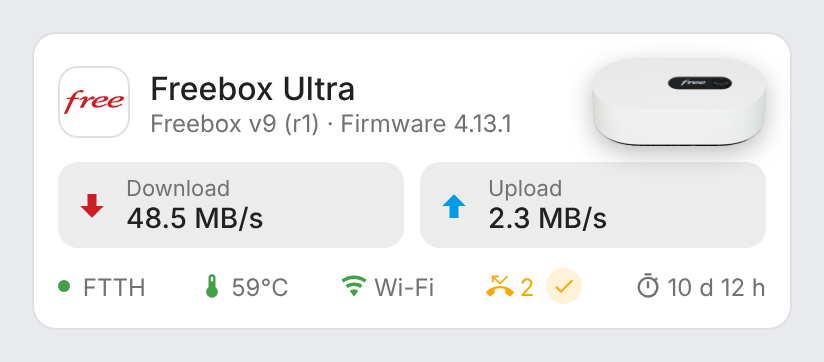
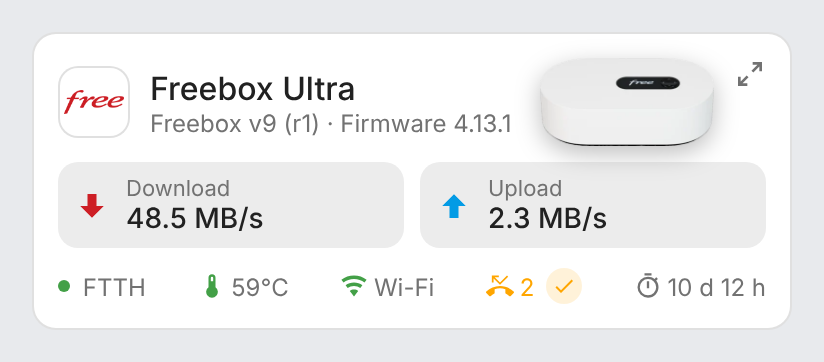
Detail button on the mini card to show the full card (1.8.0) (#17)
## Summary

- Detail button at the top right of the **Freebox Mini Card**
(`mdi:arrow-expand`, "Show the full card"): it shows the full Freebox
card in place of the mini card, same Freebox and options, every section
(network, system, storage, services). The button becomes
`mdi:arrow-collapse` ("Back to the compact view") at the top right of
the full view.
- A click anywhere outside the card folds it back (document listener in
capture phase, added / removed with the card); clicks inside the card or
in a dialog opened from it (`ha-more-info-dialog`, `ha-dialog`,
`dialog`) do not. The button click does not propagate; from the
keyboard, the focus stays on the new button.
- `FreeboxMiniCard` now extends `FreeboxCard`: zoomed in, it calls the
full card's `_render()` (no duplicated markup, jscpd 0 clones).
`getCardSize` / `getGridOptions` follow the view shown.
- New `zoom` option (default `true`), with a switch and helper in the
mini card's visual editor (EN/FR), not written to the YAML at its
default.
- Version 1.8.0: README, CHANGELOG, screenshots.

## Screenshots

| Light | Dark (French) |
|---|---|
| ![mini
card](https://raw.githubusercontent.com/juju35/ha-freebox-card/feat/mini-zoom/screenshots/mini-card.png)
| ![mini card
dark](https://raw.githubusercontent.com/juju35/ha-freebox-card/feat/mini-zoom/screenshots/mini-card-dark.png)
|
| ![mini card zoomed
in](https://raw.githubusercontent.com/juju35/ha-freebox-card/feat/mini-zoom/screenshots/mini-card-zoom.png)
[…]

diff --git a/src/freebox-card.js b/src/freebox-card.js
@@ -36,6 +36,9 @@ const ICONS = {
   phone_missed: "M23.71,16.67C20.66,13.77 16.54,12 12,12C7.46,12 3.34,13.77 0.29,16.67C0.11,16.85 0,17.1 0,17.38C0,17.66 0.11,17.9 0.29,18.08L2.77,20.56C2.95,20.74 3.2,20.85 3.5,20.85C3.75,20.85 4,20.75 4.18,20.57C4.97,19.83 5.86,19.21 6.84,18.71C7.17,18.55 7.4,18.21 7.4,17.81V14.71C8.85,14.24 10.39,14 12,14C13.6,14 15.15,14.24 16.6,14.72V17.82C16.6,18.22 16.83,18.56 17.16,18.72C18.14,19.21 19.04,19.84 19.82,20.58C20,20.76 20.25,20.86 20.5,20.86C20.8,20.86 21.05,20.75 21.23,20.57L23.71,18.09C23.89,17.91 24,17.66 24,17.38C24,17.1 23.89,16.85 23.71,16.67M6.5,5.5L12,11L19,4L18,3L12,9L7.5,4.5H11V3H5V9H6.5V5.5Z",
   database: "M12,3C7.58,3 4,4.79 4,7C4,9.21 7.58,11 12,11C16.42,11 20,9.21 20,7C20,4.79 16.42,3 12,3M4,9V12C4,14.21 7.58,16 12,16C16.42,16 20,14.21 20,12V9C20,11.21 16.42,13 12,13C7.58,13 4,11.21 4,9M4,14V17C4,19.21 7.58,21 12,21C16.42,21 20,19.21 20,17V14C20,16.21 16.42,18 12,18C7.58,18 4,16.21 4,14Z",
   chip: "M6,4H18V5H21V7H18V9H21V11H18V13H21V15H18V17H21V19H18V20H6V19H3V17H6V15H3V13H6V11H3V9H6V7H3V5H6V4M11,15V18H12V15H11M13,15V18H14V15H13M15,15V18H16V15H15Z",
+  // mdi:arrow-expand / mdi:arrow-collapse: the detail button of the mini card.
+  expand: "M10,21V19H6.41L10.91,14.5L9.5,13.09L5,17.59V14H3V21H10M14.5,10.91L19,6.41V10H21V3H14V5H17.59L13.09,9.5L14.5,10.91Z",
+  collapse: "M19.5,3.09L15,7.59V4H13V11H20V9H16.41L20.91,4.5L19.5,3.09M4,13V15H7.59L3.09,19.5L4.5,20.91L9,16.41V20H11V13H4Z",
   services: "M12,15.5A3.5,3.5 0 0,1 8.5,12A3.5,3.5 0 0,1 12,8.5A3.5,3.5 0 0,1 15.5,12A3.5,3.5 0 0,1 12,15.5M19.43,12.97C19.47,12.65 19.5,12.33 19.5,12C19.5,11.67 19.47,11.34 19.43,11L21.54,9.37C21.73,9.22 21.78,8.95 21.66,8.73L19.66,5.27C19.54,5.05 19.27,4.96 19.05,5.05L16.56,6.05C16.04,5.66 15.5,5.32 14.87,5.07L14.5,2.42C14.46,2.18 14.25,2 14,2H10C9.75,2 9.54,2.18 9.5,2.42L9.13,5.07C8.5,5.32 7.96,5.66 7.44,6.05L4.95,5.05C4.73,4.96 4.46,5.05 4.34,5.27L2.34,8.73C2.21,8.95 2.27,9.22 2.46,9.37L4.57,11C4.53,11.34 4.5,11.67 4.5,12C4.5,12.33 4.53,12.65 4.57,12.97L2.46,14.63C2.27,14.78 2.21,15.05 2.34,15.27L4.34,18.73C4.46,18.95 4.73,19.03 4.95,18.95L7.44,17.94C7.96,18.34 8.5,18.68 9.13,18.93L9.5,21.58C9.54,21.82 9.75,22 10,22H14C14.25,22 14.46,21.82 14.5,21.58L14.87,18.93C15.5,18.67 16.04,18.34 16.56,17.94L19.05,18.95C19.27,19.03 19.54,18.95 19.66,18.73L21.66,15.27C21.78,15.05 21.73,14.78 21.54,14.63L19.43,12.97Z",
 };
 
@@ -70,6 +73,8 @@ const STRINGS = {
     minutes: "min",
     no_box: "No Freebox entities found. Is the Freebox integration installed?",
     unknown_box: "Freebox not found",
+    zoom_in: "Show the full card",
+    zoom_out: "Back to the compact view",
     // Editor
     box: "Freebox (Freebox integration device)",
     title: "Title (optional, defaults to the Freebox model)",
@@ -83,6 +88,8 @@ const STRINGS = {
     show_system: "Show system (temperatures, fans)",
     show_storage: "Show storage",
     show_services: "Show services (Wi-Fi, calls, devices)",
+    zoom: "Detail button",
+    zoom_helper: "Button at the top right that shows the full Freebox card in place of the mini card, and back",
     rate_unit: "Rate unit",
     unit_bytes: "Bytes (kB/s, MB/s)",
     unit_bits: "Bits (kb/s, Mb/s)",
@@ -119,6 +126,8 @@ const STRINGS = {
     minutes: "min",
     no_box: "Aucune entité Freebox trouvée. L'intégration Freebox est-elle installée ?",
     unknown_box: "Freebox introuvable",
+    zoom_in: "Afficher la carte complète",
+    zoom_out: "Revenir à la vue compacte",
     box: "Freebox (appareil de l'intégration Freebox)",
     title: "Titre (facultatif, modèle de la Freebox par défaut)",
     model: "Modèle de la Freebox (photo et titre par défaut)",
@@ -131,6 +140,8 @@ const STRINGS = {
     show_system: "Afficher le système (températures, ventilateurs)",
     show_storage: "Afficher le stockage",
     show_services: "Afficher les services (Wi-Fi, appels, appareils)",
+    zoom: "Bouton détail",
+    zoom_helper: "Bouton en haut à droite qui affiche la carte Freebox complète à la place de la mini carte, et inversement",
     rate_unit: "Unité des débits",
     unit_bytes: "Octets (ko/s, Mo/s)",
     unit_bits: "Bits (kb/s, Mb/s)",
@@ -311,6 +322,9 @@ const morph = (root, html) => {
   tpl.innerHTML = html;
   patchChildren(root, tpl.content);
 };
+
+// A click inside a dialog (more-info opened from the card, say) is not a click outside the card.
+const inDialog = (path) => path.some((n) => ["ha-more-info-dialog", "ha-dialog", "dialog"].includes(n.localName));
 
 const fireMoreInfo = (node, entityId) => {
   if (!entityId) return;
@@ -494,6 +508,12 @@ const BASE_STYLE = `
   .tile.down { --c: var(--fb-red); }
   .tile.up { --c: var(--info-color, #039be5); }
   .warning { padding: 16px; color: var(--fb-warn); }
+  .zoom { flex: none; align-self: flex-start; display: grid; place-items: center; width: 24px; height: 24px; padding: 0;
+          margin: -4px -4px 0 -4px; border: none; border-radius: 50%; cursor: pointer; background: none;
+          color: var(--secondary-text-color); }
+  .zoom .icon { width: 16px; height: 16px; }
+  .zoom:hover { background: color-mix(in srgb, var(--secondary-text-color) 16%, transparent); color: var(--primary-text-color); }
+  .zoom:focus-visible { outline: 2px solid var(--primary-color, #03a9f4); outline-offset: 1px; }
 `;
 
 class FreeboxBase extends HTMLElement {
@@ -646,7 +666,13 @@ class FreeboxBase extends HTMLElement {
               )}"></a>`
             : ""
         }
+        ${this._headerEnd()}
       </div>`;
+  }
+
+  // End of the header, top right (the detail button of the mini card).
+  _headerEnd() {
+    return "";
   }
 
   _noBox() {
@@ -898,24 +924,64 @@ const MINI_STYLE = `
   .foot .reset .icon { width: 12px; height: 12px; }
 `;
 
-class FreeboxMiniCard extends FreeboxBase {
+// The detail button (top right, `zoom: false` removes it) switches the mini card to the full card, with the
+// same configuration, and back; a click anywhere outside the card (or a dialog opened from it) brings it back too.
+class FreeboxMiniCard extends FreeboxCard {
   static getConfigElement() {
     return document.createElement("freebox-mini-card-editor");
   }
 
-  static getStubConfig(hass) {
-    return FreeboxCard.getStubConfig(hass);
+  constructor() {
+    super();
+    this._zoomed = false;
+    this.shadowRoot.addEventListener("click", (ev) => {
+      if (!ev.composedPath().some((n) => n.classList?.contains("zoom"))) return;
+      ev.stopPropagation();
+      this._zoom(!this._zoomed);
+      // Keyboard use (Enter / Space: no click count) keeps the focus on the button of the new view.
+      if (ev.detail === 0) this.shadowRoot.querySelector(".zoom")?.focus();
+    });
+    this._onOutside = (ev) => {
+      const path = ev.composedPath();
+      if (this._zoomed && !path.includes(this) && !inDialog(path)) this._zoom(false);
+    };
+  }
+
+  connectedCallback() {
+    super.connectedCallback?.();
+    document.addEventListener("click", this._onOutside, true);
+  }
+
+  disconnectedCallback() {
+    super.disconnectedCallback?.();
+    document.removeEventListener("click", this._onOutside, true);
   }
 
   getCardSize() {
-    return 3;
+    return this._zoomed ? super.getCardSize() : 3;
   }
 
   getGridOptions() {
-    return { columns: 6, min_columns: 6 };
+    return this._zoomed ? super.getGridOptions() : { columns: 6, min_columns: 6 };
+  }
+
+  _zoom(on) {
+    if (this._zoomed === on) return;
+    this._zoomed = on;
+    this._update();
+  }
+
+  _headerEnd() {
+    if (this._config.zoom === false) return "";
+    const label = esc(this._t(this._zoomed ? "zoom_out" : "zoom_in"));
+    return `<button class="zoom" title="${label}" aria-label="${label}">${svgIcon(this._zoomed ? ICONS.collapse : ICONS.expand)}</button>`;
   }
 
   _render() {
+    return this._zoomed ? super._render() : this._renderMini();
+  }
+
+  _renderMini() {
     const box = discover(this._hass, this._config.box);
     if (!box.id) return this._noBox();
     const c = this._config;
@@ -1065,12 +1131,13 @@ class FreeboxEditorBase extends HTMLElement {
     if (!this._form) {
       this._form = document.createElement("ha-form");
       this._form.computeLabel = (s) => t(this._hass, this._config, s.name);
+      this._form.computeHelper = (s) => (STRINGS.en[`${s.name}_helper`] ? t(this._hass, this._config, `${s.name}_helper`) : undefined);
       this._form.addEventListener("value-changed", (ev) => {
         ev.stopPropagation();
         const config = { ...ev.detail.value };
         for (const [k, v] of Object.entries(config)) {
           // Keep the YAML minimal: drop empty values and options left at their default.
-          if (v === "" || v === undefined || v === null || (k.startsWith("show_") && v === true) || (k === "rate_unit" && v === "bytes"))
+          if (v === "" || v === undefined || v === null || ((k.startsWith("show_") || k === "zoom") && v === true) || (k === "rate_unit" && v === "bytes"))
             delete config[k];
         }
         this._config = config;
@@ -1095,7 +1162,7 @@ class FreeboxCardEditor extends FreeboxEditorBase {
 
 class FreeboxMiniCardEditor extends FreeboxEditorBase {
   static get toggles() {
-    return ["show_network", "show_system"];
+    return ["show_network", "show_system", "zoom"];
   }
 }
 
@@ -1121,7 +1188,7 @@ for (const card of [
   {
     type: "freebox-mini-card",
     name: "Freebox Mini Card",
-    description: "Compact Freebox overview: download / upload, connection, temperature, Wi-Fi and uptime.",
+    description: "Compact Freebox overview: download / upload, connection, temperature, Wi-Fi and uptime, with a button to show the full card.",
   },
 ]) {
   if (!window.customCards.some((c) => c.type === card.type))

diff --git a/README.md b/README.md
@@ -21,6 +21,7 @@ The cards are built on top of the [Freebox integration](https://www.home-assista
 ## Features
 
 - Two cards: a full **Freebox Card** and a compact **Freebox Mini Card**
+- Detail button at the top right of the mini card: it shows the full Freebox card in its place (same Freebox and options), and the collapse button, or a click anywhere outside the card, brings the compact view back (`zoom: false` removes it)
 - Automatic discovery of the Freebox integration entities, whatever the language of the entity ids (several Freebox supported)
 - Picture and commercial name of the Freebox model (Ultra, Pop, Delta, Revolution, mini 4K), detected automatically or set with the `model` option, and firmware version
 - Connection status and type (FTTH, xDSL…), public IPv4 (IPv6 on hover) and uptime
@@ -114,6 +115,7 @@ show_image: true
 show_logo: true
 show_network: true
 show_system: true
+zoom: true
 rate_unit: bits
 language: fr
 ```
@@ -132,6 +134,7 @@ language: fr
 | `show_system` | both | `true` | Temperatures and fans (hottest temperature on the mini card) |
 | `show_storage` | full | `true` | Disk partitions and RAID status |
 | `show_services` | full | `true` | Wi-Fi, missed calls and connected devices |
+| `zoom` | mini | `true` | Detail button at the top right: shows the full card (every section) in place of the mini card, and back |
 | `rate_unit` | both | `bytes` | Rates unit: `bytes` (kB/s, MB/s) or `bits` (kb/s, Mb/s) |
 | `language` | both | Auto | Force language: `fr` or `en` (auto-detects from HA settings) |
 
@@ -150,6 +153,9 @@ The models supported by the [Freebox integration](https://www.home-assistant.io/
 |---|---|
 | ![card](screenshots/card.png) | ![card dark](screenshots/card-dark.png) |
 | ![mini card](screenshots/mini-card.png) | ![mini card dark](screenshots/mini-card-dark.png) |
+| ![mini card, detail view](screenshots/mini-card-zoom.png) | ![mini card dark, detail view](screenshots/mini-card-zoom-dark.png) |
+
+The last row is the mini card after a click on its detail button (top right): the full card, with the collapse button in the same place.
 
 ## How it works
 

diff --git a/CHANGELOG.md b/CHANGELOG.md
@@ -1,5 +1,15 @@
 # Changelog
 
+## 1.8.0
+
+### New
+- Detail button at the top right of the **Freebox Mini Card**: it shows the full Freebox card in place of the mini card (same Freebox and options, every section), and the collapse button brings the compact view back. A click anywhere outside the card folds it back too; a click inside it, or in a dialog opened from it (more-info), does not. From the keyboard, the focus stays on the button.
+- `zoom` option of the mini card (on by default; `zoom: false` removes the button), with its switch in the visual editor (**Detail button**).
+- The card size given to the dashboard follows the view shown.
+
+### Maintenance
+- Browser test of the detail button; screenshots of the zoomed-in mini card.
+
 ## 1.7.2
 
 ### Fixes
